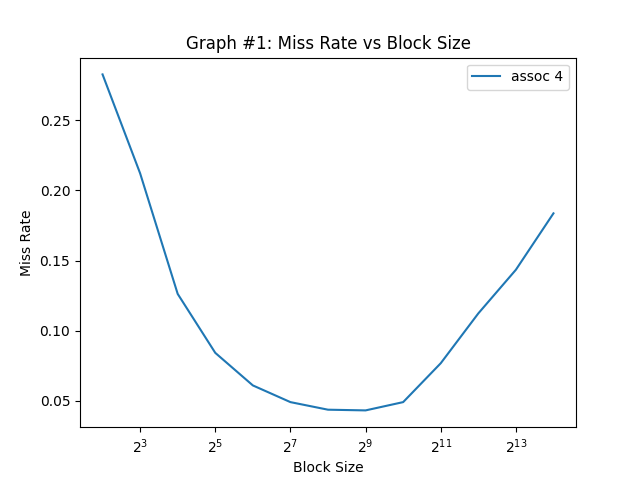
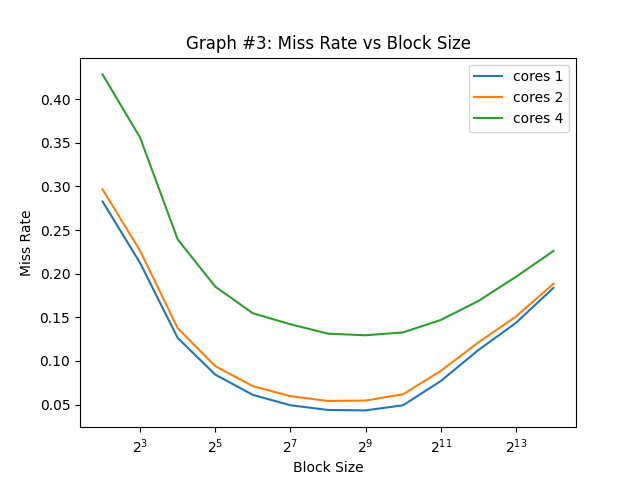
graph 3

diff --git a/p5release/graph3.py b/p5release/graph3.py
@@ -12,9 +12,9 @@ bsize_range = [b for b in range(2, 15)]
 # capacity range
 cap_range = [c for c in range(16, 17)]
 # number of cores (1, 2, 4)
-cores = [1]
+cores = [1, 2, 4]
 # coherence protocol: (none, vi, or msi)
-protocol='none'
+protocol='vi'
 
 expname='exp3'
 figname='graph3.png'
@@ -39,7 +39,7 @@ def graph():
     folder = "results/"+expname+"/"+timestr+"/"
     os.system("mkdir -p "+folder)
 
-    miss_rate = {a:[] for a in assoc_range}
+    miss_rate = {a:[] for a in cores} # a -> lst, where a is core count
 
     for a in assoc_range:
         for b in bsize_range:
@@ -48,15 +48,15 @@ def graph():
                     logfile = folder+"%s-%02d-%02d-%02d-%02d.out" % (
                             protocol, d, c, b, a)
                     run_exp(logfile, d, c, b, a)
-                    miss_rate[a].append(get_stats(logfile, 'miss_rate')/100)
+                    miss_rate[d].append(get_stats(logfile, 'miss_rate')/100)
 
     plots = []
     for a in miss_rate:
         p,=plt.plot([2**i for i in bsize_range], miss_rate[a])
         plots.append(p)
-    plt.legend(plots, ['assoc %d' % a for a in assoc_range])
+    plt.legend(plots, ['cores %d' % a for a in cores])
     plt.xscale('log', base=2)
-    plt.title('Graph #1: Miss Rate vs Block Size')
+    plt.title('Graph #3: Miss Rate vs Block Size')
     plt.xlabel('Block Size')
     plt.ylabel('Miss Rate')
     plt.savefig(figname)

diff --git a/p5release/cache.c b/p5release/cache.c
@@ -245,5 +245,3 @@ bool access_cache(cache_t *cache, unsigned long addr, enum action_t action) {
 
 }
   
-
-
